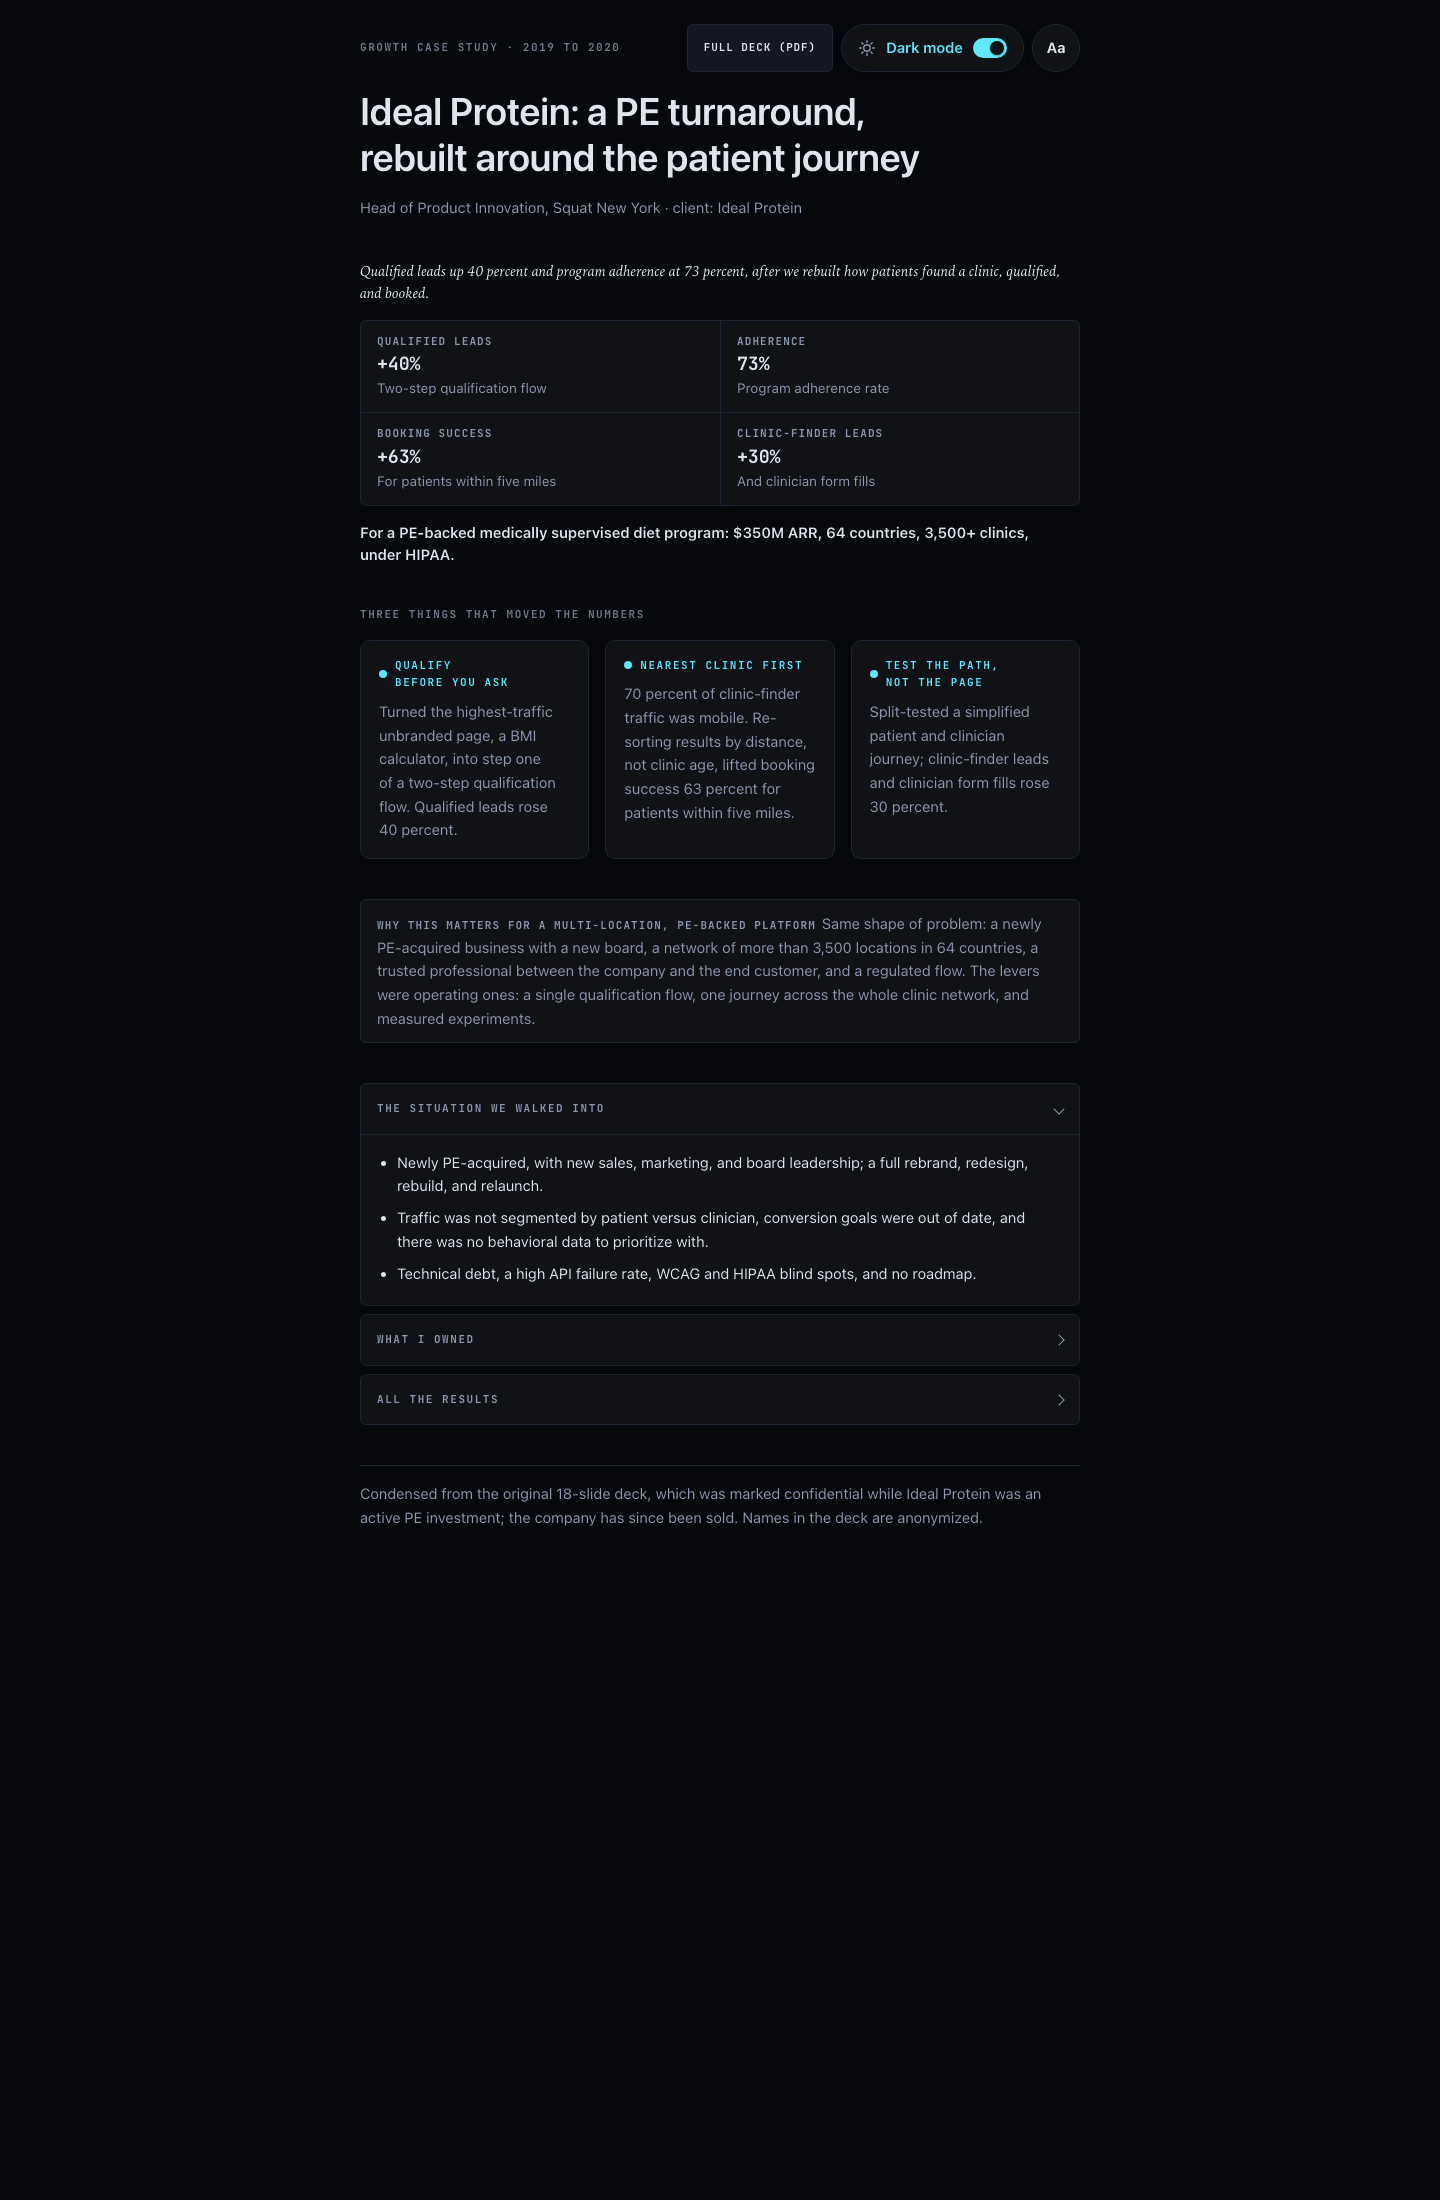
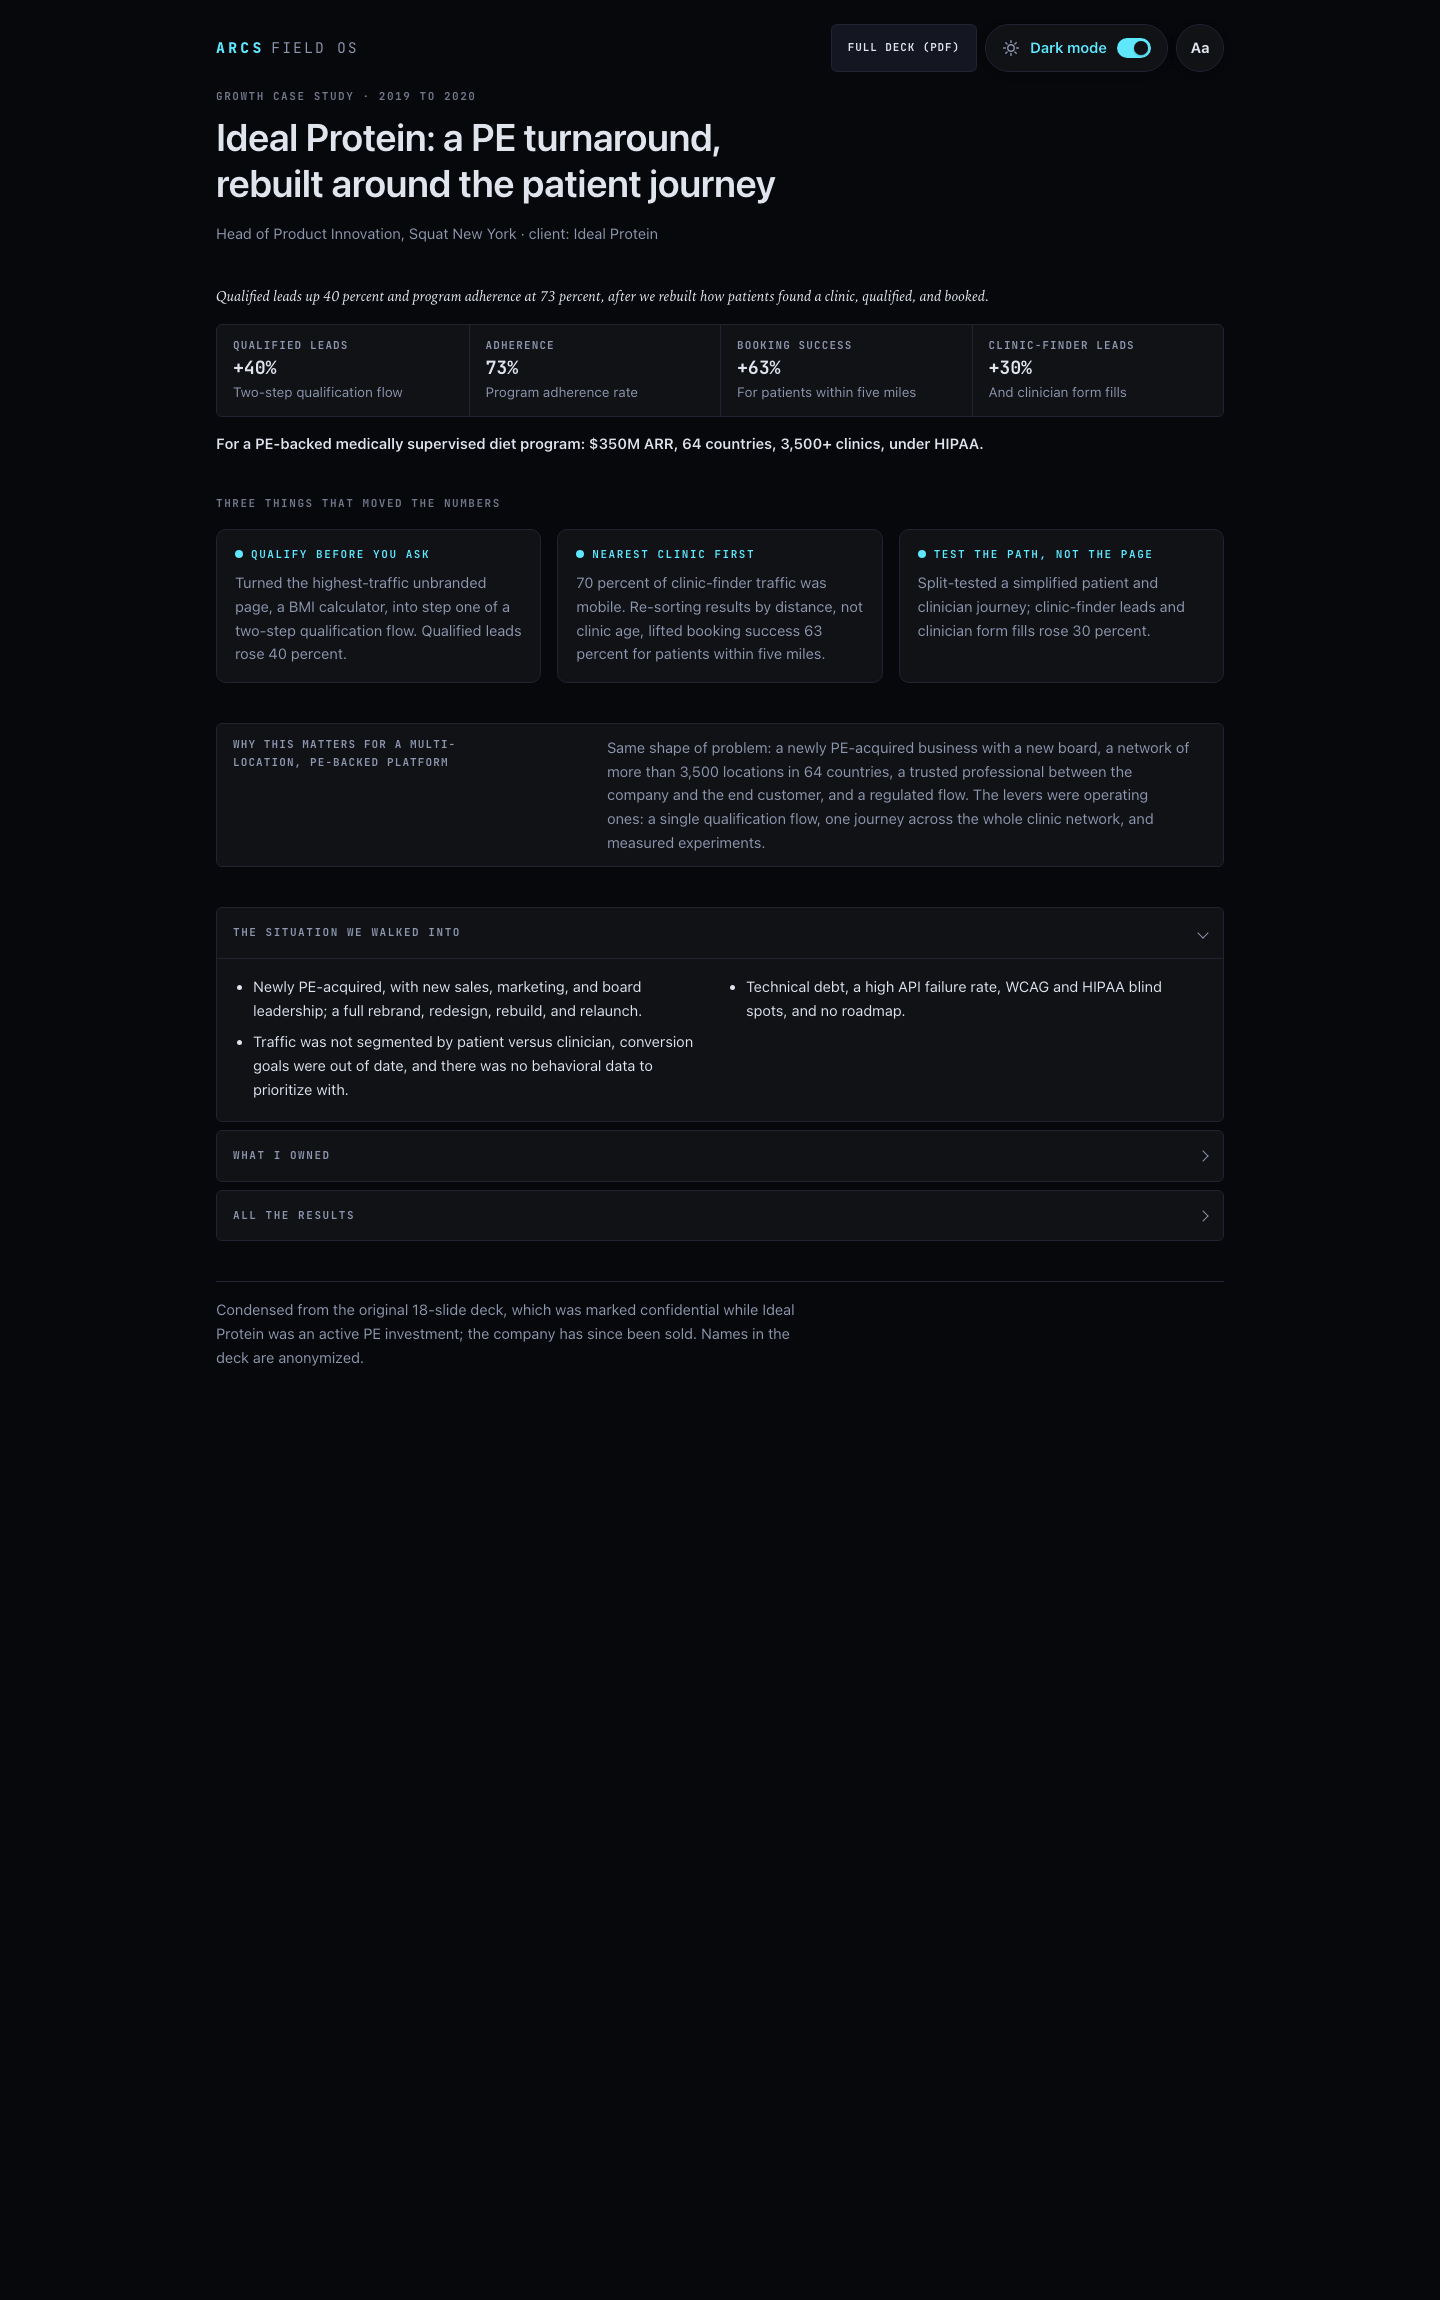
fix(case-study): wordmark top-left and the 1008px house lane [NCI:44]
Zach, 2026-11-16: "Use the wordmark" (rule 13b holds: kit 38 wordmark left,
kit 51 right, eyebrow under the top row) and "this page has that fixed
width bug too" (the page was pinned to a 720px column). The lane is now
1008px like the tabbed-brief shell; body text stays on a 600px measure:
the Why callout pairs label and text in two columns, fold lists split in
two columns, the footer text sits on the measure. Brand gate PASS after a
BLOCK on 128-character lines. Rulings recorded in the style ledger.

diff --git a/public/case-study.html b/public/case-study.html
@@ -1,5 +1,5 @@
 <!DOCTYPE html>
-<!-- Built from kit parts: 27 section-label, 30 button, 31 callout, 53 cold-read (read tone), 39 theme-toggle,
+<!-- Built from kit parts: 38 wordmark, 27 section-label, 30 button, 31 callout, 53 cold-read (read tone), 39 theme-toggle,
      51 display-preferences, 68 spec-rows (cards), 71 proof-lockup, 56 fold. Each marked block is the kit block verbatim;
      scripts/kit_primitive_sync.py --check fails if one drifts. Change the kit file, then re-copy.
      arcs.care/case-study: neutral (counterpart-agnostic) Ideal Protein case study; re-rendered on the kit 2026-11-16. -->
@@ -98,6 +98,11 @@
   --mo-shutter-ms:  650ms;   /* pinhole shutter: time to fully admit a new picture after a hard change */
 }
 /* Kit molecules and organisms, verbatim. */
+/* @prim:begin 38-wordmark */
+.wordmark { font-family: var(--ds-font-mono); text-transform: uppercase; display: inline-flex; gap: 0.45em; align-items: baseline; max-width: none; }
+.wordmark .wa { color: var(--cyan); font-weight: 800; letter-spacing: 0.22em; }
+.wordmark .wf { color: var(--text-secondary); font-weight: 400; letter-spacing: 0.14em; }
+/* @prim:end 38-wordmark */
 /* @prim:begin 39-theme-toggle */
 :root{color-scheme:dark;}
 @media (prefers-color-scheme: light){:root:not([data-theme="dark"]){--bg:#f3f5f9;--surface:#ffffff;--surface-2:#e9edf4;--elevated:#e9edf4;--border:#cfd7e3;--text:#0f172a;--text-secondary:#334155;--muted:#46566b;--dimmed:#52627a;--cyan:#025f93;--cyan-bg:rgba(2,95,147,0.09);--green:#0b6b53;--green-bg:rgba(11,107,83,0.09);--gold:#8a5508;--gold-bg:rgba(138,85,8,0.10);--red:#be123c;--red-bg:rgba(190,18,60,0.08);color-scheme:light;}}
@@ -232,15 +237,15 @@
 @media (prefers-reduced-motion: reduce) { .fold > summary::after { transition: none; } }
 /* @prim:end 56-fold */
 /* Page layout. Kit tokens only; no signal hex below this line. */
-:root{--measure:720px}
+:root{--lane:1008px;--measure:600px} /* lane = the house frame (tabbed-brief .tb, 1008px); measure = one body reading width, about 80 characters */
 *,*::before,*::after{box-sizing:border-box}
 body{margin:0;background:var(--bg);color:var(--text);font-family:var(--ds-font-sans);font-size:var(--fs-body);line-height:1.6;padding:24px 16px 72px;-webkit-font-smoothing:antialiased}
-main{max-width:var(--measure);margin:0 auto;display:flex;flex-direction:column;gap:40px}
+main{max-width:var(--lane);margin:0 auto;display:flex;flex-direction:column;gap:40px}
 main > section, main > header{display:flex;flex-direction:column;gap:16px;min-width:0}
 p,li,dd{text-wrap:pretty}
 h1,h2{text-wrap:balance;margin:0}
 .top{display:flex;flex-wrap:wrap;align-items:center;justify-content:space-between;gap:12px 16px}
-.top .section-label{margin:0}
+header > .section-label{margin:0 0 -8px}
 .top-act{display:flex;flex-wrap:wrap;align-items:center;gap:8px;margin-left:auto}
 .top-act .dprefs{margin-left:0}
 a.btn{display:inline-flex;align-items:center;min-height:48px;text-decoration:none}
@@ -254,10 +259,18 @@ h2.section-label{margin:0}
 .fold-body ul{margin:0;padding-left:20px;display:flex;flex-direction:column;gap:8px}
 .fold-body li{margin:0}
 /* Three cards, not two: page-local until kit 68 grows a three-up variant (seam named in the PR). */
-@media (min-width:720px){.spec.cards.is-3{grid-template-columns:repeat(3,minmax(0,1fr))}.spec.cards.is-3 > .specrow{padding:16px 18px}.spec.cards.is-3 > .specrow dt{text-wrap:balance}}
+@media (min-width:760px){.spec.cards.is-3{grid-template-columns:repeat(3,minmax(0,1fr))}.spec.cards.is-3 > .specrow{padding:16px 18px}.spec.cards.is-3 > .specrow dt{text-wrap:balance}}
 .foot{margin:0;color:var(--text-secondary);border-top:1px solid var(--border);padding-top:16px}
 a{color:var(--text);text-underline-offset:3px;text-decoration-color:var(--cyan)}
 a:focus-visible{outline:2px solid var(--cyan);outline-offset:2px}
+/* Wide lane, readable lines (rule 13b pairing): boxes fill the lane, text sits on the measure. */
+@media (min-width:760px){
+.cr > .callout.cr-read{display:grid;grid-template-columns:minmax(0,1fr) minmax(0,var(--measure));column-gap:24px;align-items:start}
+.cr > .callout.cr-read b{margin:0;text-wrap:balance}
+.fold-body ul{display:block;columns:2;column-gap:32px;padding-left:20px}
+.fold-body li{break-inside:avoid;margin:0 0 8px}
+.foot{padding-right:max(0px,calc(100% - var(--measure)))}
+}
 @media print{a.btn,.top-act{display:none}.fold:not([open]) > .fold-body{display:block}}
 </style>
 <link rel="preload" href="/fonts/inter-normal-100-900-latin-v1.woff2" as="font" type="font/woff2" crossorigin>
@@ -277,10 +290,11 @@ a:focus-visible{outline:2px solid var(--cyan);outline-offset:2px}
 <main>
 <header>
 <div class="top">
-<p class="section-label">Growth case study · 2019 to 2020</p>
+<span class="wordmark"><span class="wa">ARCS</span><span class="wf">Field OS</span></span>
 <div class="top-act"><a class="btn" href="/case-study.pdf" download="Zach-Harris-Ideal-Protein-Case-Study.pdf">Full deck (PDF)</a><div class="dprefs"><button type="button" class="dprefs-theme" aria-pressed="true" aria-label="Dark mode"><svg viewBox="0 0 20 20" aria-hidden="true" fill="none" stroke="currentColor" stroke-width="1.6" stroke-linecap="round"><circle cx="10" cy="10" r="3.6"/><path d="M10 1.8v2M10 16.2v2M1.8 10h2M16.2 10h2M4.2 4.2l1.4 1.4M14.4 14.4l1.4 1.4M4.2 15.8l1.4-1.4M14.4 5.6l1.4-1.4"/></svg><span class="dprefs-ttl">Dark mode</span><span class="dprefs-trk" aria-hidden="true"></span></button><button type="button" class="dprefs-aa" aria-expanded="false" aria-controls="dp" aria-label="Reading options"><span aria-hidden="true">Aa</span></button></div></div>
 </div>
 <section id="dp" class="dprefs-panel" role="dialog" aria-modal="false" aria-labelledby="dp-h" hidden><p id="dp-h" class="dprefs-title">Reading options</p><div class="dprefs-group" role="group" aria-labelledby="dp-font"><span id="dp-font" class="dprefs-label">Font</span><span class="dprefs-btns"><button type="button" data-k="font" data-v="std" aria-pressed="true">Standard</button><button type="button" data-k="font" data-v="easy" aria-pressed="false">Easy-read</button></span></div><div class="dprefs-group" role="group" aria-labelledby="dp-size"><span id="dp-size" class="dprefs-label">Text size</span><span class="dprefs-btns"><button type="button" data-k="size" data-v="std" aria-pressed="true">Standard</button><button type="button" data-k="size" data-v="l" aria-pressed="false">Larger</button><button type="button" data-k="size" data-v="xl" aria-pressed="false">Largest</button></span></div><div class="dprefs-group" role="group" aria-labelledby="dp-space"><span id="dp-space" class="dprefs-label">Spacing</span><span class="dprefs-btns"><button type="button" data-k="space" data-v="std" aria-pressed="true">Standard</button><button type="button" data-k="space" data-v="roomy" aria-pressed="false">Roomy</button></span></div><div class="dprefs-actions"><button type="button" data-reset>Reset</button><button type="button" data-close>Close</button></div></section>
+<p class="section-label">Growth case study · 2019 to 2020</p>
 <h1>Ideal Protein: a PE turnaround, rebuilt around the patient journey</h1>
 <p class="role">Head of Product Innovation, Squat New York · client: Ideal Protein</p>
 </header>
@@ -301,7 +315,7 @@ a:focus-visible{outline:2px solid var(--cyan);outline-offset:2px}
 </section>
 
 <section class="cr" aria-label="Why this matters for a multi-location, PE-backed platform">
-<p class="callout cr-read"><b>Why this matters for a multi-location, PE-backed platform</b>Same shape of problem: a newly PE-acquired business with a new board, a network of more than 3,500 locations in 64 countries, a trusted professional between the company and the end customer, and a regulated flow. The levers were operating ones: a single qualification flow, one journey across the whole clinic network, and measured experiments.</p>
+<p class="callout cr-read"><b>Why this matters for a multi-location, PE&#8209;backed platform</b>Same shape of problem: a newly PE-acquired business with a new board, a network of more than 3,500 locations in 64 countries, a trusted professional between the company and the end customer, and a regulated flow. The levers were operating ones: a single qualification flow, one journey across the whole clinic network, and measured experiments.</p>
 </section>
 
 <div class="folds">

diff --git a/_PATTERNS/zach-style-ledger.md b/_PATTERNS/zach-style-ledger.md
@@ -28,3 +28,9 @@ Written 2026-11-13 by the session that relays Zach's picks. This is the one plac
 - Braided lanes (kit 73, PR 2266; filed as 72, renumbered 2026-11-15 when the week strip took 72 on main): layout C picked 2026-11-13 (ledger lanes, thin evidence set apart under a divider, two-slider week window).
 - Lane colours (Zach, 2026-11-15, "Keep coloured lanes"): each belief domain keeps its own colour (Rulebook cyan, How I work green, Security red, Client reads violet, Shipping magenta, Stress tests orange, Infrastructure blue, Public pages grey). The brand gate's objection, that signal colours do category work here (green on disproven beliefs), is ruled on: colour names the domain on this chart, the gold ring stays the only rule signal. Closed; do not neutralise the dots.
 - Voice (Zach, 2026-11-15, "the royal we is the wrong thing... it seems like I am speaking about myself in the third person"): the belief log speaks in first person singular ("Every belief I changed my mind about", lane "How I work"). One author, so no "we". Closed.
+
+## Rulings (case study, arcs.care/case-study, 2026-11-16, PR 2286)
+- Picks: header B, numbers A (kit 71 proof lockup), levers B (kit 68 spec cards, three up), why B (kit 31 callout in kit 53 read tone), detail A (kit 56 folds, first open).
+- Voice (Zach, 2026-11-16, "keep we"): the case study keeps "we" where the work was a team's (the Squat team rebuilt the journey), marked data-voice="joint" for the voice gate. This is the joint-we exception, not a reversal of the first person singular rule.
+- Global header (Zach, 2026-11-16, "Use the wordmark"): rule 13b holds on the case study too. Kit 38 wordmark top-left, kit 51 display preferences right; the eyebrow from pick B moves under the top row, above the headline. Closed; no one-page exception.
+- Lane (Zach, 2026-11-16, "this page has that fixed width bug too"): the case study moves from a fixed 720px column to the house lane, 1008px (the tabbed-brief shell's .tb frame); a 720 column kept the kit 71 panel two by two and squeezed three-up cards to about 25 characters a line. Whether every standalone page takes the 1008 lane is not yet ruled.
